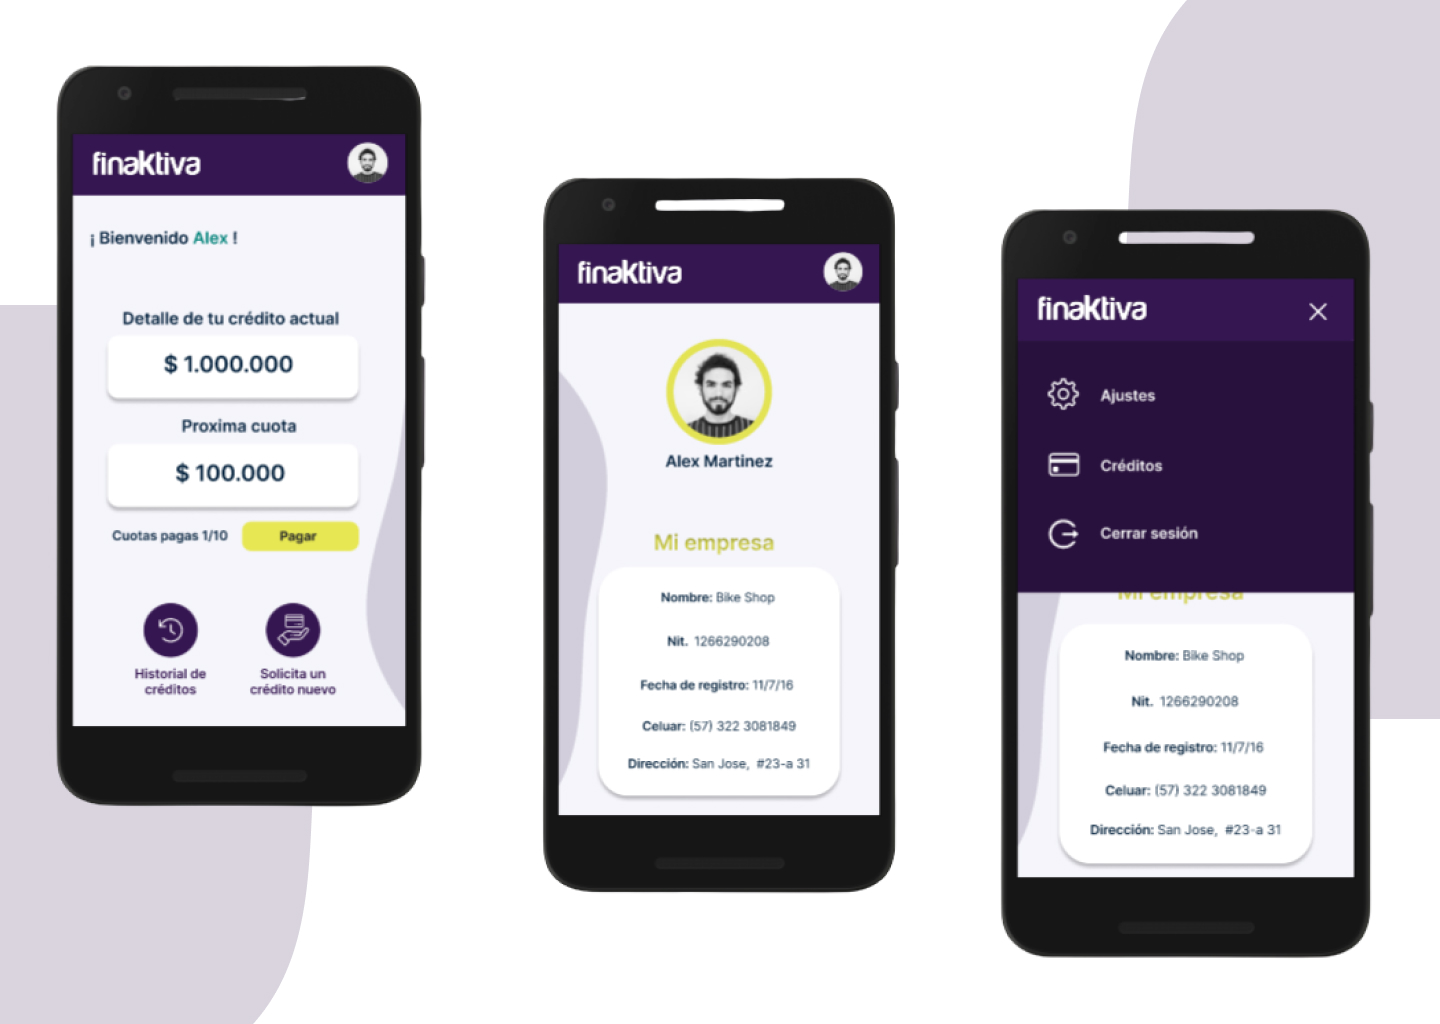
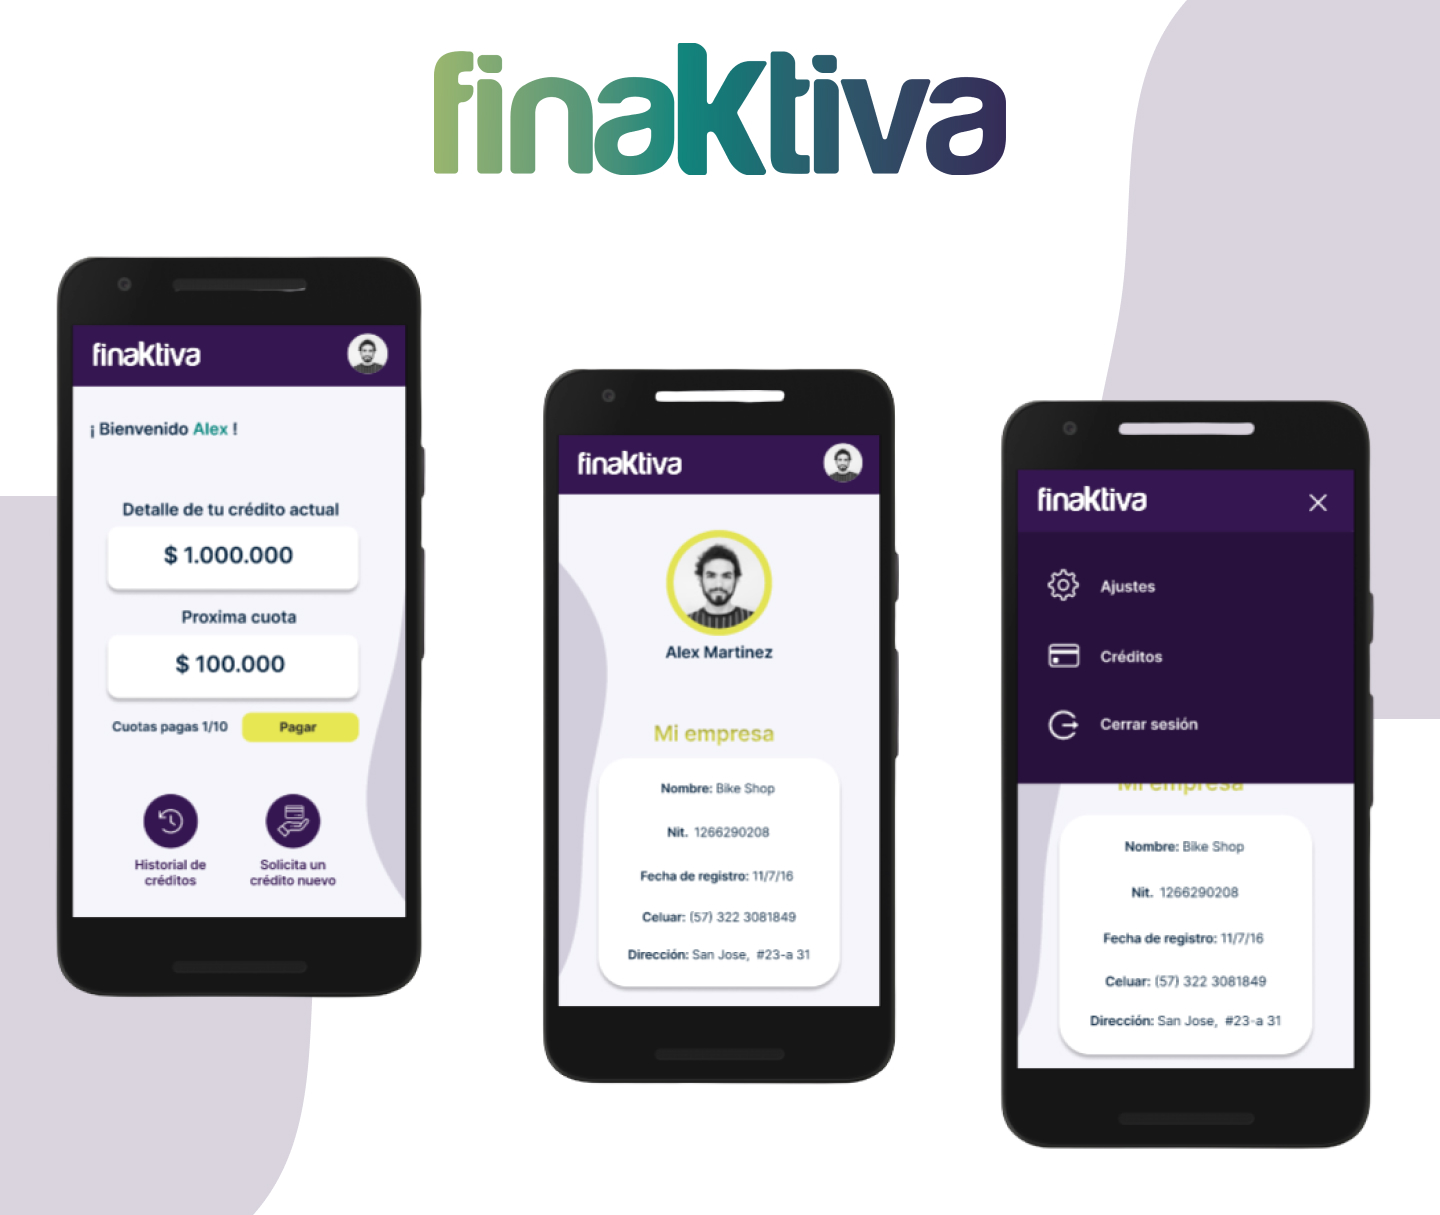
finaktiva

Changed region(s): [[0.0, 0.0312, 0.7188, 0.9062], [0.6875, 0.1875, 1.0, 0.9688]]

diff --git a/README.md b/README.md
@@ -1,7 +1,5 @@
 # Reto-Finaktiva
 
-<div align="center"><img src="images/logo.png" width= 400 center></div>
-<br>
 <div align="center"><img src="images/Banner.jpg" width= 800 center></div>
 
 ## Definición del producto
